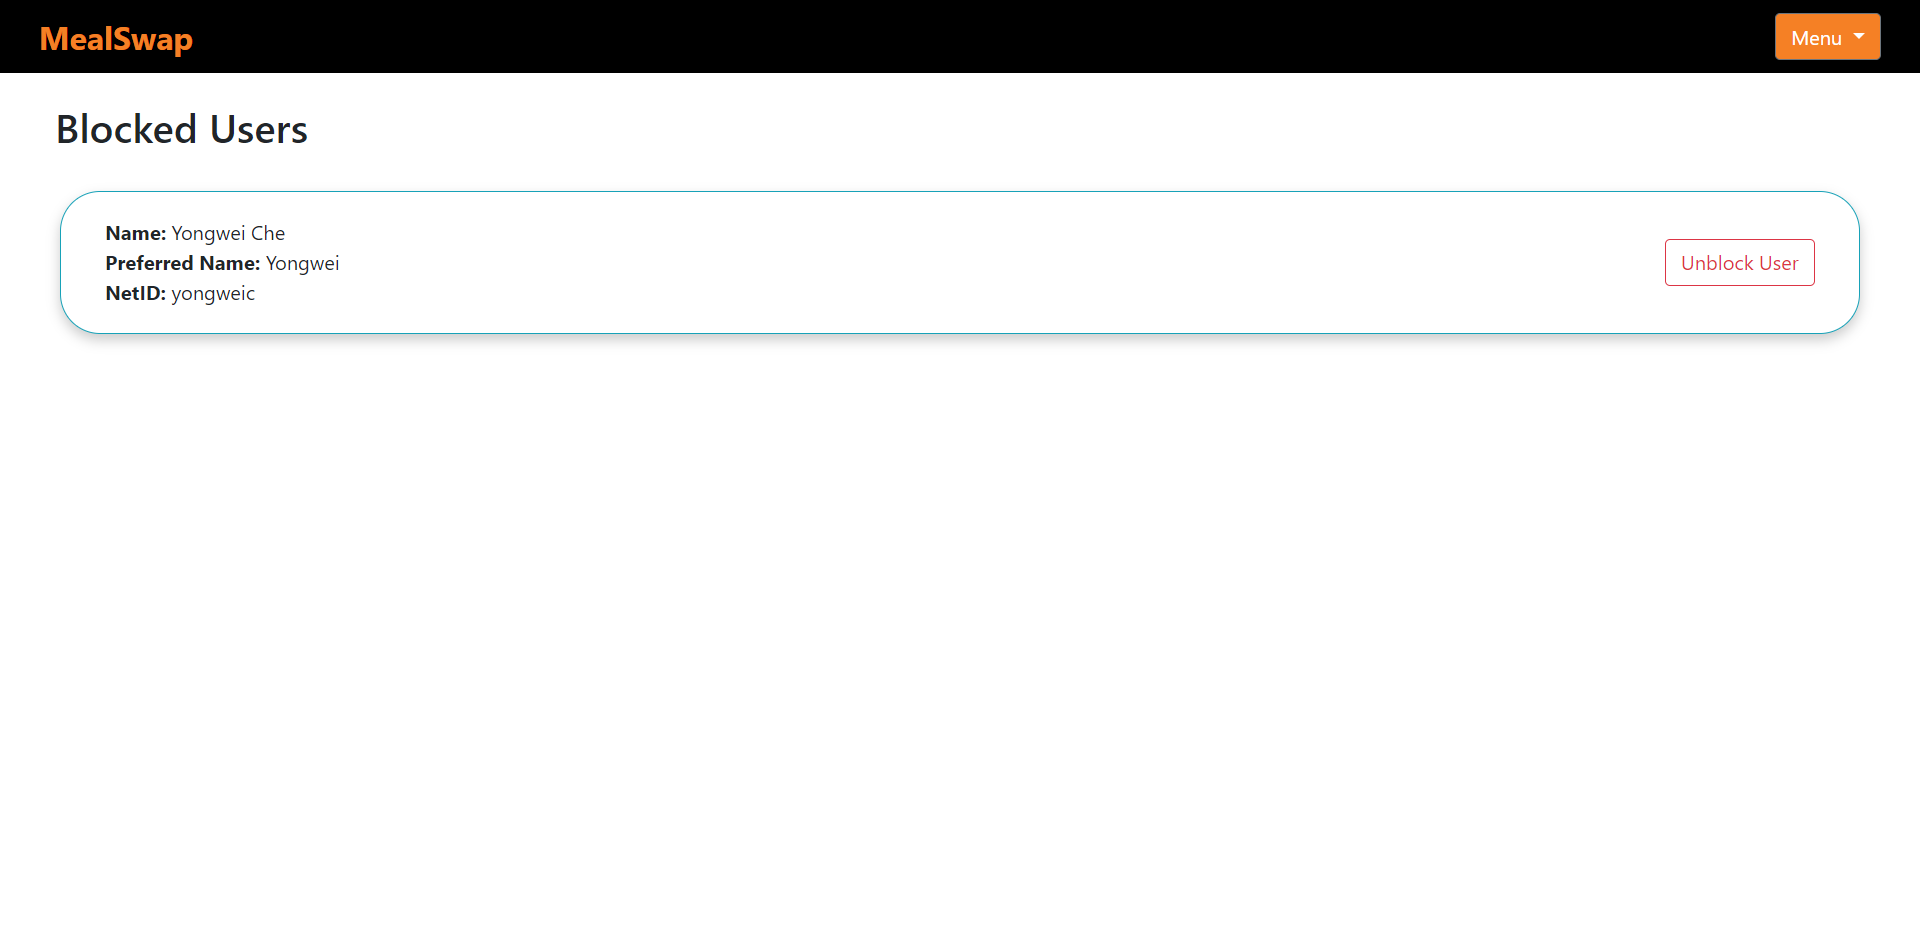
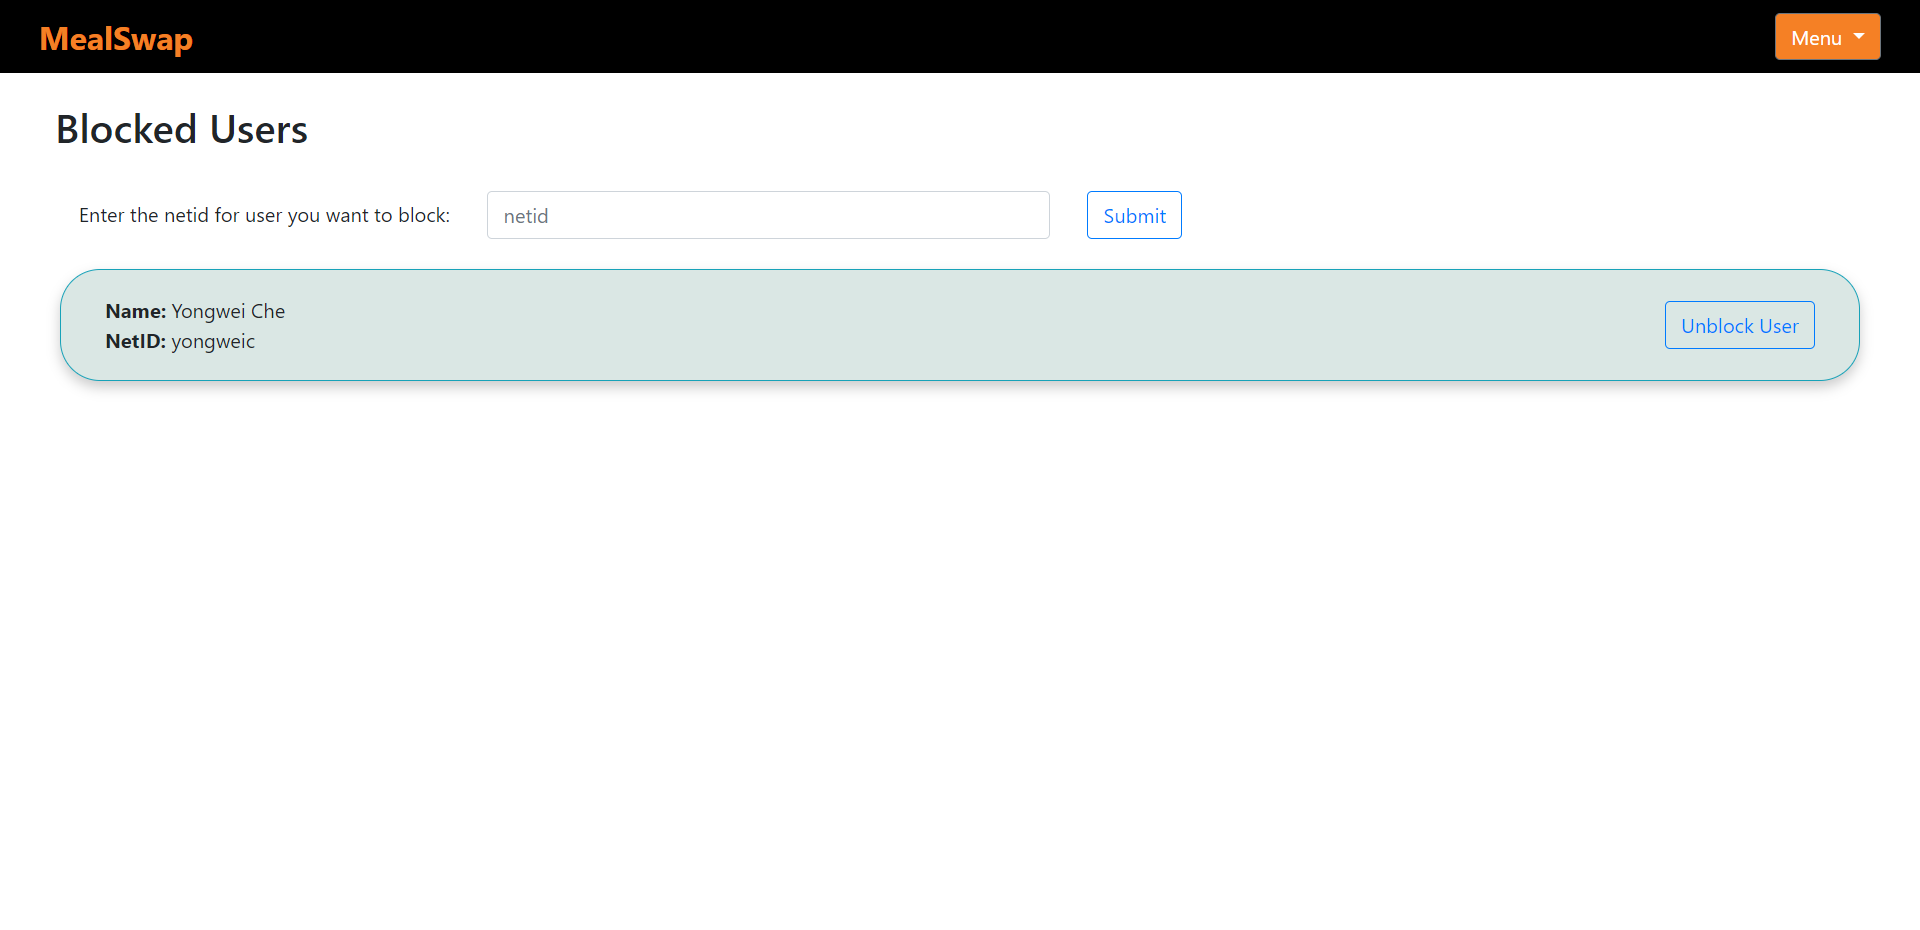
tutorial

diff --git a/templates/create_account.html b/templates/create_account.html
@@ -46,10 +46,11 @@
         </div>
       </nav>
  
- 
-    <h2 style="padding-top: 30px; padding-left: 45px;">
+      <div class="mx-sm-5">
+    <h2 style="padding-top: 30px; padding-left: 15px;">
         Create Your Account
     </h2>
+    </div>
 
     <div style="padding-top: 30px; padding-left: 30px;">
         
@@ -57,6 +58,7 @@
     </div>
 
     <form action='/create' method="post">
+      <div class="mx-sm-5">
         <input type="hidden" id="blockid" name="blockid" value="work">
         <div class="form-row col-md-8">
                 <div class="form-group col-md-4">
@@ -133,7 +135,7 @@
                   </div>
                 </div>
               </div>
-
+            </div>
       </form>
 </body>
  

diff --git a/templates/tutorial.html b/templates/tutorial.html
@@ -127,7 +127,7 @@
       Here you may update your preferred name, dining plan, class year, and phone number.
       <br />
       <br />
-      In the Blocked Users page, you will see all of the users that you have blocked in the past and you will have the option to unblock them by clicking "Unblock User".
+      In the Blocked Users page, you will see all of the users that you have blocked in the past and you will have the option to unblock them by clicking "Unblock User". You may also preemptively block a user by entering their netid in the field at the top and clicking block.
       <br />
       <br />
       <img src="static/images/BlockedUsers.png" style="width: 80%" alt="logo" />
